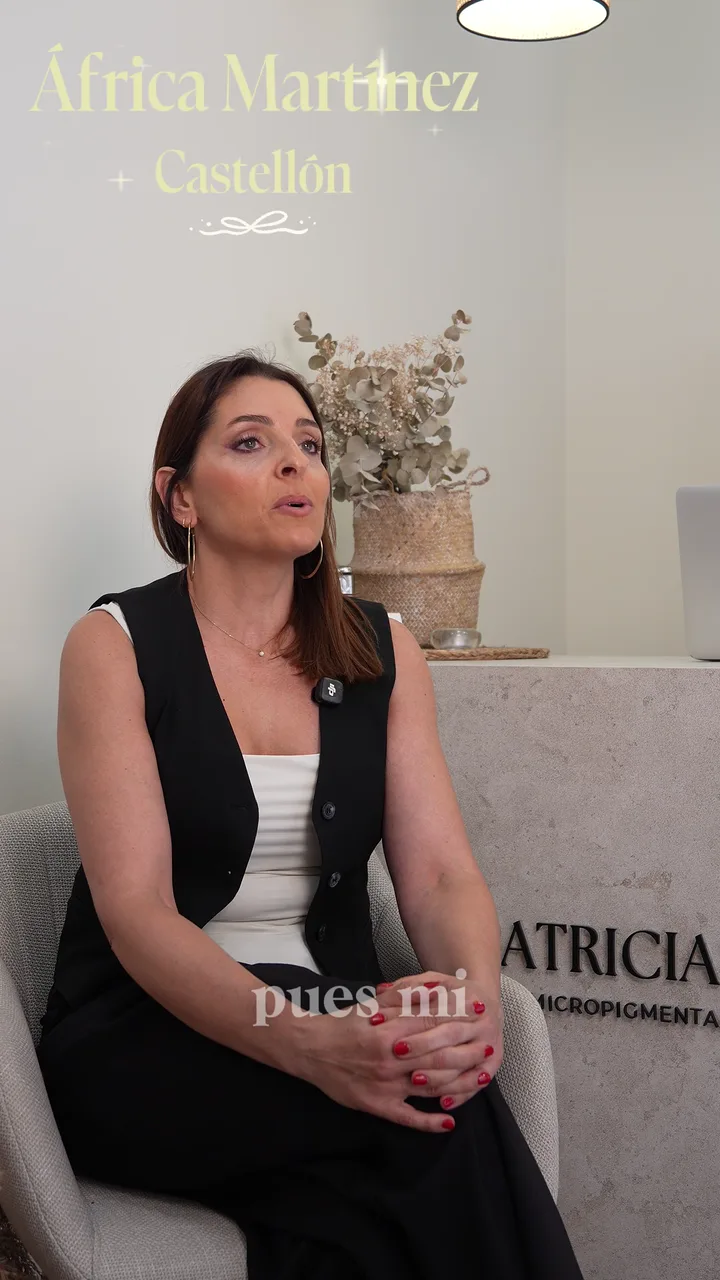
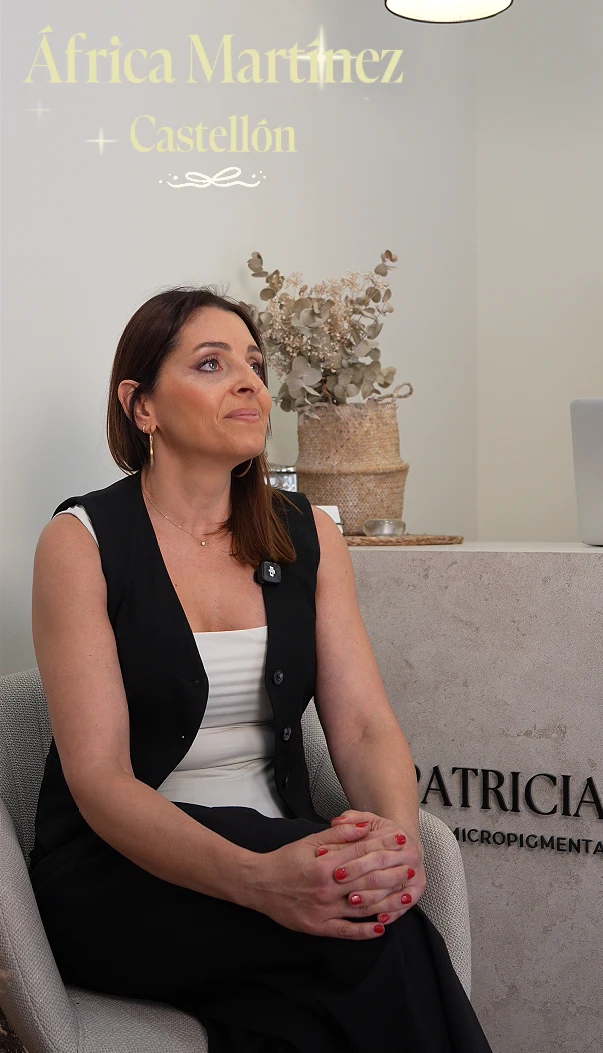
feat: autoplay formation testimonials

diff --git a/src/components/FormationShorts.jsx b/src/components/FormationShorts.jsx
@@ -12,8 +12,36 @@ const shorts = [
 ];
 
 export default function FormationShorts() {
+  const sectionRef = useRef(null);
+  const videoRefs = useRef([]);
+  const [isInViewport, setIsInViewport] = useState(false);
+
+  useEffect(() => {
+    const section = sectionRef.current;
+    const reduceMotion = window.matchMedia('(prefers-reduced-motion: reduce)').matches;
+    if (!section || reduceMotion) return undefined;
+
+    const observer = new IntersectionObserver(
+      ([entry]) => setIsInViewport(entry.isIntersecting && entry.intersectionRatio > 0.2),
+      { threshold: [0, 0.2, 0.35], rootMargin: '0px 0px -8% 0px' },
+    );
+
+    observer.observe(section);
+    return () => observer.disconnect();
+  }, []);
+
+  useEffect(() => {
+    if (!isInViewport) return;
+
+    videoRefs.current.forEach((video) => {
+      if (!video) return;
+      video.muted = true;
+      void video.play().catch(() => undefined);
+    });
+  }, [isInViewport]);
+
   return (
-    <section className="relative overflow-hidden bg-[#0A0A0A] px-6 py-20 text-[#F3EDE2] md:px-16 md:py-28">
+    <section ref={sectionRef} className="relative overflow-hidden bg-[#0A0A0A] px-6 py-20 text-[#F3EDE2] md:px-16 md:py-28">
       <div
         aria-hidden="true"
         className="absolute inset-0 opacity-[0.18]"
@@ -31,19 +59,35 @@ export default function FormationShorts() {
         </header>
 
         <div className="mx-auto mt-12 grid max-w-2xl grid-cols-1 gap-7 sm:grid-cols-2 md:mt-16">
-          {shorts.map((short) => (
+          {shorts.map((short, index) => (
             <article key={short.name} className="group relative rounded-[1.35rem] border border-[#F3EDE2]/20 bg-[#F3EDE2]/5 p-2 shadow-[0_24px_60px_rgba(0,0,0,0.28)] transition-transform duration-500 hover:-translate-y-1 hover:border-[#F3EDE2]/45">
-              <video
-                className="aspect-[9/16] w-full rounded-[1rem] border border-[#F3EDE2]/10 bg-[#0A0A0A] object-cover"
-                controls
-                playsInline
-                preload="metadata"
-                poster={short.poster}
-                aria-label={`Testimonio de ${short.name}`}
-              >
-                <source src={short.src} type="video/mp4" />
-                Tu navegador no permite reproducir este v&iacute;deo.
-              </video>
+              {isInViewport ? (
+                <video
+                  ref={(video) => { videoRefs.current[index] = video; }}
+                  className="aspect-[9/16] w-full rounded-[1rem] border border-[#F3EDE2]/10 bg-[#0A0A0A] object-cover"
+                  autoPlay
+                  controls
+                  loop
+                  muted
+                  playsInline
+                  preload="auto"
+                  poster={short.poster}
+                  aria-label={`Testimonio de ${short.name}`}
+                  onCanPlay={(event) => {
+                    if (isInViewport) void event.currentTarget.play().catch(() => undefined);
+                  }}
+                >
+                  <source src={short.src} type="video/mp4" />
+                  Tu navegador no permite reproducir este v&iacute;deo.
+                </video>
+              ) : (
+                <img
+                  className="aspect-[9/16] w-full rounded-[1rem] border border-[#F3EDE2]/10 bg-[#0A0A0A] object-cover"
+                  src={short.poster}
+                  alt={`Testimonio de ${short.name}`}
+                  loading="lazy"
+                />
+              )}
             </article>
           ))}
         </div>
@@ -51,3 +95,4 @@ export default function FormationShorts() {
     </section>
   );
 }
+import { useEffect, useRef, useState } from 'react';

diff --git a/src/index.css b/src/index.css
@@ -3,6 +3,10 @@
 @config "../tailwind.config.js";
 
 @layer base {
+  html, body, #root {
+    font-family: "Montserrat", sans-serif;
+  }
+
   html {
     scroll-behavior: smooth;
   }
